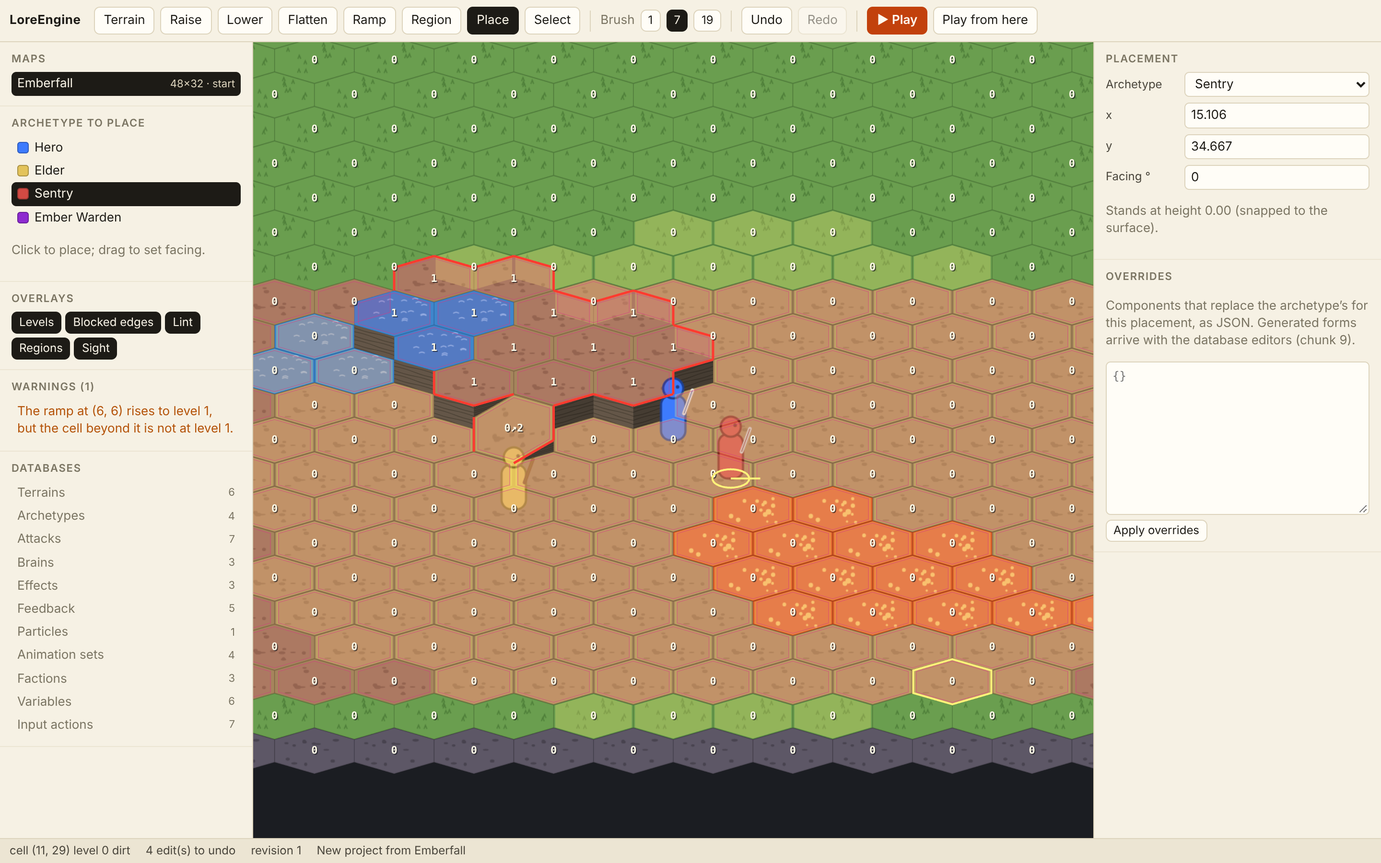
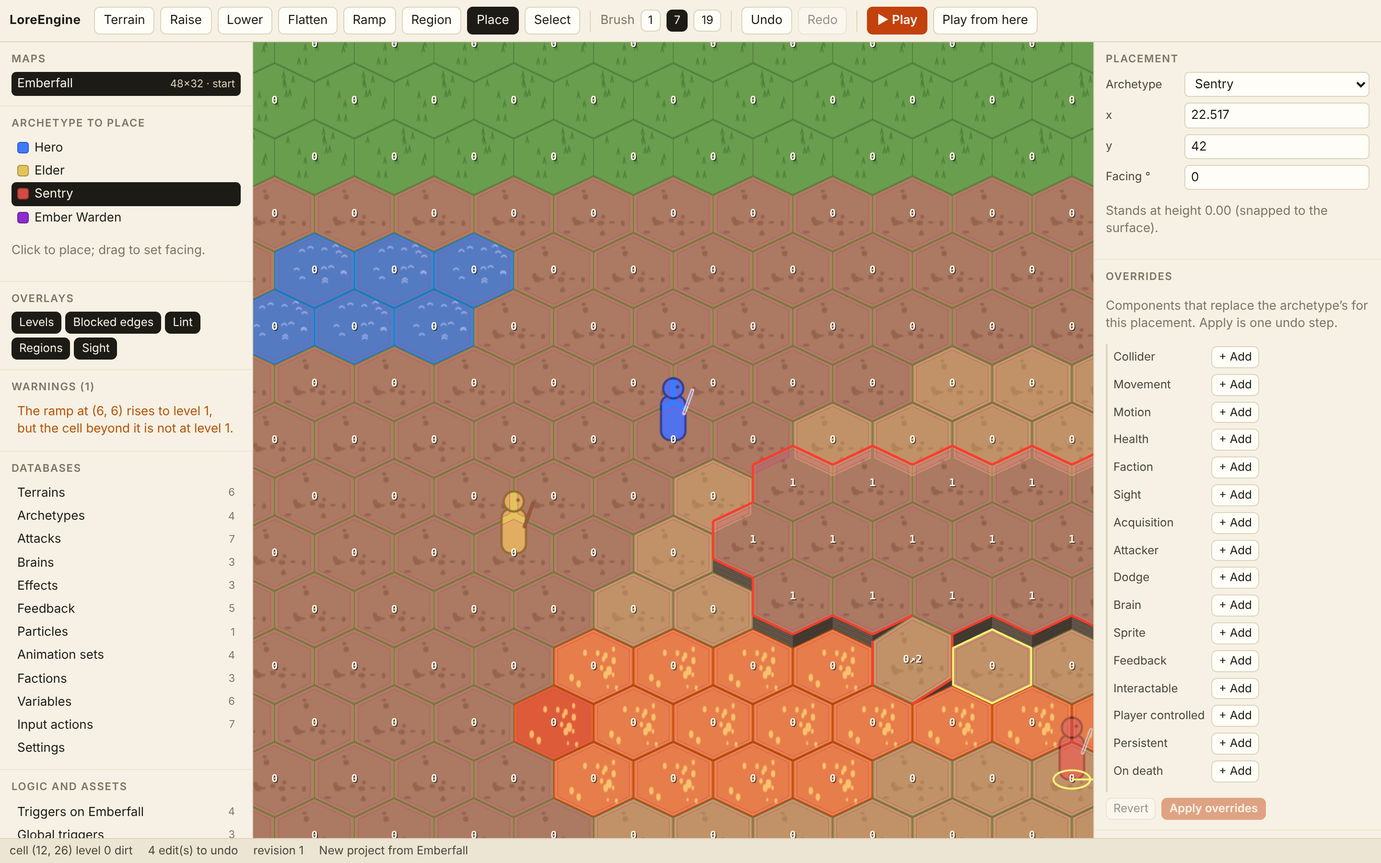
Camera pitched 55 degrees after E's spike review (Civ VI reference)
- projection: a real camera pitch (sin for ground depth, cos for height),
  55 degrees by default; setCameraPitch / setProjectionRatios; ?pitch= on
  the player page (spike = the first camera)
- render tests: exact-number tests include the height ratio; picking and
  occlusion keep their original assertions at the spike's exact projection
  and add the 55 and 70 degree cases
- fix: the ramp tool's arrow drew before a direction was chosen and threw
- docs: spike and editor screenshots regenerated, angle comparison images,
  N10 (departs from 6.6's unscaled heights; E to confirm), D192, PROGRESS

Claude-Session: https://claude.ai/code/session_01Am5jT5BgtTgEo1UVVfn9oa

diff --git a/packages/render/test/spike.test.ts b/packages/render/test/spike.test.ts
@@ -2,7 +2,7 @@
  * Render spike tests (spec 6.11). Everything here runs on the draw list,
  * the strip geometry, and the picking function: no GPU, no DOM.
  */
-import { describe, expect, it } from 'vitest';
+import { afterEach, describe, expect, it } from 'vitest';
 import { ELEVATION, buildElevation, buildEmberfall, cellCenter, id } from '@loreengine/fixtures';
 import { createRuntime, emptyInput } from '@loreengine/runtime';
 import type { Runtime } from '@loreengine/runtime';
@@ -10,13 +10,16 @@ import type { Project } from '@loreengine/schema';
 import { DrawList, ITEM_ENTITY, ITEM_STRIP } from '../src/drawlist.ts';
 import { pickEntity, pickTerrain } from '../src/picking.ts';
 import type { TerrainPick } from '../src/picking.ts';
-import { ISO_RATIO, clampZoom, createCamera, followCamera, projectX, projectY, screenX, screenY, visibleRows, worldXAt, worldYAt } from '../src/projection.ts';
+import { DEFAULT_CAMERA_PITCH, HEIGHT_RATIO, ISO_RATIO, clampZoom, createCamera, followCamera, projectX, projectY, screenX, screenY, setCameraPitch, setProjectionRatios, visibleRows, worldXAt, worldYAt } from '../src/projection.ts';
 import type { Camera } from '../src/projection.ts';
 import { colorOf, footprintRadius, shade, spriteMetrics } from '../src/sprites.ts';
 import { CAMERA_FACING, TOP_INDICES, buildStrip, maxSurface } from '../src/terrain.ts';
 
 const A = ELEVATION.terraces;
 const PPU = 64;
+/** Marks the spike's first projection (squash 0.5, heights unscaled; D192). */
+const SPIKE_PITCH = -1;
+afterEach(() => setCameraPitch(DEFAULT_CAMERA_PITCH));
 const cellOf = (c: { col: number; row: number }): number => c.row * A.width + c.col;
 
 function start(mutate?: (p: Project) => void): Runtime {
@@ -49,17 +52,23 @@ describe('[P3B.projection.world-to-screen] the hex-iso projection', () => {
     expect(at(cam, 10, 20, 0)).toEqual([400, 300]); // the camera's focus is the screen center
     expect(at(cam, 11, 20, 0)).toEqual([400 + 64, 300]);
     expect(at(cam, 10, 21, 0)).toEqual([400, 300 + 64 * ISO_RATIO]);
-    expect(at(cam, 10, 20, 1)).toEqual([400, 300 - 64]); // height lifts straight up
+    // Height lifts straight up, by cos(pitch) of a world unit (D192).
+    expect(at(cam, 10, 20, 1)[0]).toBe(400);
+    expect(at(cam, 10, 20, 1)[1]).toBeCloseTo(300 - 64 * HEIGHT_RATIO, 9);
     cam.zoom = 2;
-    expect(at(cam, 11, 21, 0.5)).toEqual([400 + 128, 300 + 64 - 64]);
+    expect(at(cam, 11, 21, 0.5)[0]).toBe(400 + 128);
+    expect(at(cam, 11, 21, 0.5)[1]).toBeCloseTo(300 + 128 * ISO_RATIO - 64 * HEIGHT_RATIO, 9);
+    // The pitch is a real camera's: ground depth by sin, height by cos.
+    expect(ISO_RATIO).toBeCloseTo(Math.sin((DEFAULT_CAMERA_PITCH * Math.PI) / 180), 12);
+    expect(HEIGHT_RATIO).toBeCloseTo(Math.cos((DEFAULT_CAMERA_PITCH * Math.PI) / 180), 12);
   });
 
   it('reads pixelsPerUnit from the project settings', () => {
     const cam = createCamera(800, 600);
     expect(screenX(cam, 32, 1)).toBe(400 + 32);
-    expect(screenY(cam, 32, 0, 1)).toBe(300 - 32);
+    expect(screenY(cam, 32, 0, 1)).toBeCloseTo(300 - 32 * HEIGHT_RATIO, 9);
     expect(projectX(2, 100)).toBe(200);
-    expect(projectY(2, 0.5, 100)).toBe((2 * ISO_RATIO - 0.5) * 100);
+    expect(projectY(2, 0.5, 100)).toBeCloseTo((2 * ISO_RATIO - 0.5 * HEIGHT_RATIO) * 100, 9);
   });
 
   it('worldXAt / worldYAt invert the projection at any height', () => {
@@ -124,7 +133,7 @@ describe('[P3B.terrain.frames] terrain strips', () => {
     expect(Array.from(flat.heights)).toEqual([1, 1, 1, 1, 1, 1, 1]);
     const c = cellCenter(A.plateau.col, A.plateau.row);
     expect(flat.vertices[0]).toBeCloseTo(c.x * PPU, 3);
-    expect(flat.vertices[1]).toBeCloseTo((c.y * ISO_RATIO - 1) * PPU, 3);
+    expect(flat.vertices[1]).toBeCloseTo((c.y * ISO_RATIO - 1 * HEIGHT_RATIO) * PPU, 3);
     // The lower stacked ramp rises east from level 0 to level 1 (0 .. 0.5 world units).
     const ramp = strip(A.rampLow.row).tops[A.rampLow.col]!;
     const h = Array.from(ramp.heights).map((v) => Math.round(v * 1000) / 1000);
@@ -142,8 +151,8 @@ describe('[P3B.terrain.frames] terrain strips', () => {
       expect([f.topA, f.topB, f.bottomA, f.bottomB]).toEqual([1, 1, 0, 0]);
       expect(f.frame).toEqual(project.terrains[2]!.cliff);
       expect(f.vertices).toHaveLength(8);
-      // Bottom vertices sit one world unit (64 px) below the top ones.
-      expect(f.vertices[7]! - f.vertices[1]!).toBeCloseTo(64, 3);
+      // Bottom vertices sit one world unit (64 px at zoom 1, by cos(pitch)) below the top ones.
+      expect(f.vertices[7]! - f.vertices[1]!).toBeCloseTo(64 * HEIGHT_RATIO, 3);
     }
     // Interior plateau rows have no faces (their neighbors are at the same height) ...
     expect(strip(A.plateau.row + 1).faces.filter((f) => f.cell === cellOf({ col: 8, row: A.plateau.row + 1 }))).toEqual([]);
@@ -227,7 +236,7 @@ describe('[P3B.depth.order] ★ depth order, on the draw list', () => {
     expect(unit).toBeLessThan(list.indexOfStrip(A.plateauEdge.row + 1));
     // Its feet are drawn at the plateau's height, one world unit above the ground position.
     const c = cellCenter(A.plateauEdge.col, A.plateauEdge.row);
-    expect(list.footY[entityOf(rt, 'plateau-edge')]).toBeCloseTo(screenY(cam, PPU, c.y, 0) - 64 * cam.zoom, 6);
+    expect(list.footY[entityOf(rt, 'plateau-edge')]).toBeCloseTo(screenY(cam, PPU, c.y, 0) - 64 * HEIGHT_RATIO * cam.zoom, 6);
   });
 
   it('a unit on a ramp is drawn after the ramp\'s strip, at the ramp\'s height', () => {
@@ -346,16 +355,24 @@ describe('[P3B.picking.height-aware] ★ height-aware picking', () => {
   };
 
   it('points over a plateau\'s top return the plateau cell, not the low hex under its flat footprint', () => {
-    for (const cell of [A.plateauEdge, { col: 7, row: 3 }, { col: 9, row: 5 }]) {
-      for (const [dx, dy] of [[0, 0], [0.5, 0.2], [-0.4, -0.5], [0, 0.7]] as const) {
-        const [sx, sy] = onTop(cell, dx, dy);
-        const hit = pick(sx, sy)!;
-        expect(hit.cell).toBe(cellOf(cell));
-        expect(hit.z).toBeCloseTo(1, 6);
-        expect(hit.y).toBeCloseTo(cellCenter(cell.col, cell.row).y + dy, 3);
-        // A flat pick at the same screen point would have landed two rows further north, on other cells.
-        const flatY = worldYAt(cam, PPU, sy, 0);
-        expect(world.cellAt(worldXAt(cam, PPU, sx), flatY)).not.toBe(cellOf(cell));
+    // At the spike's projection (as first written), and at the default and a steeper camera (D192).
+    for (const pitch of [SPIKE_PITCH, DEFAULT_CAMERA_PITCH, 70]) {
+      if (pitch === SPIKE_PITCH) setProjectionRatios(0.5, 1);
+      else setCameraPitch(pitch);
+      for (const cell of [A.plateauEdge, { col: 7, row: 3 }, { col: 9, row: 5 }]) {
+        for (const [dx, dy] of [[0, 0], [0.5, 0.2], [-0.4, -0.5], [0, 0.7]] as const) {
+          const [sx, sy] = onTop(cell, dx, dy);
+          const hit = pick(sx, sy)!;
+          expect(hit.cell, `pitch ${pitch}`).toBe(cellOf(cell));
+          expect(hit.z).toBeCloseTo(1, 6);
+          expect(hit.y).toBeCloseTo(cellCenter(cell.col, cell.row).y + dy, 3);
+          // At the spike's camera a flat pick at the same screen point would have landed two rows
+          // further north, on other cells. Steeper cameras lift less, so this only holds there.
+          if (pitch === SPIKE_PITCH) {
+            const flatY = worldYAt(cam, PPU, sy, 0);
+            expect(world.cellAt(worldXAt(cam, PPU, sx), flatY)).not.toBe(cellOf(cell));
+          }
+        }
       }
     }
   });

diff --git a/packages/render/src/projection.ts b/packages/render/src/projection.ts
@@ -1,20 +1,47 @@
 /**
  * The hex-iso projection (spec 6.6). The world plane is the un-squashed hex
- * plane in world units. The projection places (x, y) with the vertical iso
- * squash; height lifts the point by `z * pixelsPerUnit * zoom` screen pixels.
+ * plane in world units, seen by an orthographic camera pitched down from the
+ * horizon by CAMERA_PITCH: depth on the ground shrinks by sin(pitch) and
+ * height by cos(pitch), so a steeper camera shows rounder hexes and shorter
+ * cliffs, as Civilization VI and Beyond Earth do.
  *
  *   screenX = (x - cam.x) * ppu * zoom + width / 2
- *   screenY = ((y - cam.y) * ISO_RATIO - (z - cam.z)) * ppu * zoom + height / 2
+ *   screenY = ((y - cam.y) * ISO_RATIO - (z - cam.z) * HEIGHT_RATIO) * ppu * zoom + height / 2
  *
  * Everything here is pure: the picking and depth-order tests run without a GPU.
  */
 
 /**
- * Vertical squash of the world plane on screen. v0.6.0 authored this per
- * map (`isoRatio`); the foundation schema has no such field, so it is an
- * engine constant (DECISIONS_LOG N3).
+ * The camera's angle above the horizon, in degrees. v0.6.0 authored a squash
+ * per map (`isoRatio`); the foundation schema has no such field, so this is
+ * an engine constant (DECISIONS_LOG N3). 55° after E's spike review (D192);
+ * the spike's first angle was about 27° (squash 0.5, heights unscaled).
  */
-export const ISO_RATIO = 0.5;
+export const DEFAULT_CAMERA_PITCH = 55;
+
+/** sin(pitch): how much ground depth survives on screen. */
+export let ISO_RATIO = Math.sin((DEFAULT_CAMERA_PITCH * Math.PI) / 180);
+/** cos(pitch): how much height survives on screen. */
+export let HEIGHT_RATIO = Math.cos((DEFAULT_CAMERA_PITCH * Math.PI) / 180);
+export let CAMERA_PITCH = DEFAULT_CAMERA_PITCH;
+
+/**
+ * Set the two ratios directly. The spike's first camera was (0.5, 1): a squash
+ * of 0.5 with heights unscaled, which no pitch reproduces exactly at the same
+ * scale. Tests use it to keep the spike's original assertions (D192).
+ */
+export function setProjectionRatios(iso: number, height: number): void {
+  ISO_RATIO = iso;
+  HEIGHT_RATIO = height;
+  CAMERA_PITCH = (Math.atan2(iso, height) * 180) / Math.PI;
+}
+
+/** Change the camera's angle (20°..80°), for comparing angles; call before a renderer is made. */
+export function setCameraPitch(degrees: number): void {
+  CAMERA_PITCH = Math.max(20, Math.min(80, degrees));
+  ISO_RATIO = Math.sin((CAMERA_PITCH * Math.PI) / 180);
+  HEIGHT_RATIO = Math.cos((CAMERA_PITCH * Math.PI) / 180);
+}
 
 export const MIN_ZOOM = 0.5;
 export const MAX_ZOOM = 2;
@@ -44,14 +71,14 @@ export function projectX(x: number, ppu: number): number {
   return x * ppu;
 }
 export function projectY(y: number, z: number, ppu: number): number {
-  return (y * ISO_RATIO - z) * ppu;
+  return (y * ISO_RATIO - z * HEIGHT_RATIO) * ppu;
 }
 
 export function screenX(cam: Camera, ppu: number, x: number): number {
   return (x - cam.x) * ppu * cam.zoom + cam.width / 2;
 }
 export function screenY(cam: Camera, ppu: number, y: number, z: number): number {
-  return ((y - cam.y) * ISO_RATIO - (z - cam.z)) * ppu * cam.zoom + cam.height / 2;
+  return ((y - cam.y) * ISO_RATIO - (z - cam.z) * HEIGHT_RATIO) * ppu * cam.zoom + cam.height / 2;
 }
 
 /** World x under screen column `sx` (independent of height). */
@@ -60,7 +87,7 @@ export function worldXAt(cam: Camera, ppu: number, sx: number): number {
 }
 /** World y of the point at height `z` that projects to screen row `sy`. */
 export function worldYAt(cam: Camera, ppu: number, sy: number, z: number): number {
-  return ((sy - cam.height / 2) / (ppu * cam.zoom) + (z - cam.z)) / ISO_RATIO + cam.y;
+  return ((sy - cam.height / 2) / (ppu * cam.zoom) + (z - cam.z) * HEIGHT_RATIO) / ISO_RATIO + cam.y;
 }
 
 /**

diff --git a/packages/render/test/presentation.test.ts b/packages/render/test/presentation.test.ts
@@ -15,7 +15,7 @@ import { MAX_PAGE, bakeAtlas, frameNameOf, packFrames, svgAnchor, svgSize } from
 import type { BakeTools, SvgSource } from '../src/bake.ts';
 import { DrawList } from '../src/drawlist.ts';
 import { Feedback, MAX_PARTICLES, MAX_SHAKE } from '../src/feedback.ts';
-import { createCamera } from '../src/projection.ts';
+import { DEFAULT_CAMERA_PITCH, createCamera, setCameraPitch, setProjectionRatios } from '../src/projection.ts';
 import { isOccluded, silhouettes } from '../src/silhouette.ts';
 import { maxSurface } from '../src/terrain.ts';
 
@@ -397,8 +397,12 @@ describe('the feedback system', () => {
 
   it('the occlusion silhouette: a unit behind a cliff is covered; one on the plateau edge or in the open is not', () => {
     const p = buildElevation();
-    const spot = (cell: { col: number; row: number }) => {
+    const spot = (cell: { col: number; row: number }, plateauLevel = 2) => {
       const q = buildElevation();
+      const m = q.maps[0]!;
+      for (let row = A.plateau.row; row < A.plateau.row + A.plateau.h; row++) {
+        for (let col = A.plateau.col; col < A.plateau.col + A.plateau.w; col++) m.layers.level[row * m.width + col] = plateauLevel;
+      }
       const c = cellCenter(cell.col, cell.row);
       q.maps[0]!.playerStart = { x: c.x, y: c.y, facing: 0 };
       q.maps[0]!.placements = [];
@@ -414,8 +418,21 @@ describe('the feedback system', () => {
       return { occluded: isOccluded(rt.view, cam, list, 0), count: silhouettes(rt.view, cam, list, out), first: out[0] };
     };
     void p;
-    expect(spot(A.behindCliff)).toEqual({ occluded: true, count: 1, first: 0 });
-    expect(spot(A.plateauEdge).occluded).toBe(false);
-    expect(spot(A.playerStart)).toMatchObject({ occluded: false, count: 0 });
+    try {
+      // The spike's projection (squash 0.5, heights unscaled; D192): the level-2 plateau covers the unit right behind it.
+      setProjectionRatios(0.5, 1);
+      expect(spot(A.behindCliff)).toEqual({ occluded: true, count: 1, first: 0 });
+      expect(spot(A.plateauEdge).occluded).toBe(false);
+      expect(spot(A.playerStart)).toMatchObject({ occluded: false, count: 0 });
+      // The default, steeper camera sees over that plateau (a cliff of h hides about 0.7 h behind it);
+      // raised to level 6 (3 units) it covers the same unit again.
+      setCameraPitch(DEFAULT_CAMERA_PITCH);
+      expect(spot(A.behindCliff).occluded).toBe(false);
+      expect(spot(A.behindCliff, 6)).toEqual({ occluded: true, count: 1, first: 0 });
+      expect(spot(A.plateauEdge, 6).occluded).toBe(false);
+      expect(spot(A.playerStart)).toMatchObject({ occluded: false, count: 0 });
+    } finally {
+      setCameraPitch(DEFAULT_CAMERA_PITCH);
+    }
   });
 });

diff --git a/packages/player/src/main.ts b/packages/player/src/main.ts
@@ -7,11 +7,12 @@
  *   ?pick=8,4              pick the terrain under that cell's top, as a click there would
  *   ?start=37,22           start the player on that cell
  *   ?hud=0                 hide the debug readout
+ *   ?pitch=55              camera angle in degrees above the horizon (`spike`: the spike's first camera)
  *
  * `window.__lore` exposes the client for the spike screenshot script.
  */
 import { buildElevation, buildEmberfall, cellCenter, emberfallBlobs } from '@loreengine/fixtures';
-import { screenX, screenY } from '@loreengine/render';
+import { screenX, screenY, setCameraPitch, setProjectionRatios } from '@loreengine/render';
 import type { TerrainPick } from '@loreengine/render';
 import { startClient } from './client.ts';
 import type { Client } from './client.ts';
@@ -23,6 +24,9 @@ declare global {
 }
 
 const params = new URLSearchParams(location.search);
+// ?pitch=55 compares camera angles (degrees above the horizon).
+if (params.get('pitch') === 'spike') setProjectionRatios(0.5, 1); // the render spike's first camera
+else if (params.has('pitch')) setCameraPitch(Number(params.get('pitch')));
 const host = document.getElementById('app')!;
 const project = params.get('fixture') === 'elevation' ? buildElevation() : buildEmberfall();
 

diff --git a/packages/editor/src/ui/canvas.ts b/packages/editor/src/ui/canvas.ts
@@ -218,7 +218,8 @@ export class CanvasController {
       sight,
       brush: this.brushUnder(this.hoverCell),
       brushColor: s.tool === 'region' && s.eraseRegion ? '#ff6b5e' : '#fff27a',
-      rampPreview: drag?.kind === 'layer' && drag.rampCell >= 0 ? { cell: drag.rampCell, dir: map.layers.ramp[drag.rampCell]! } : null,
+      // No arrow until the drag has chosen a direction (a ramp of 0 is no ramp).
+      rampPreview: drag?.kind === 'layer' && drag.rampCell >= 0 && map.layers.ramp[drag.rampCell]! > 0 ? { cell: drag.rampCell, dir: map.layers.ramp[drag.rampCell]! } : null,
     });
     if (selected >= 0) {
       const e = this.preview.entities;

diff --git a/packages/editor/src/ui/draw.ts b/packages/editor/src/ui/draw.ts
@@ -136,7 +136,7 @@ export function drawEditorOverlays(ctx: CanvasRenderingContext2D, p: Projector, 
       ctx.stroke();
     }
   }
-  if (o.rampPreview) {
+  if (o.rampPreview && o.rampPreview.dir >= 1 && o.rampPreview.dir <= 6) {
     const { cell, dir } = o.rampPreview;
     const x = o.world.centerX(cell);
     const y = o.world.centerY(cell);

diff --git a/packages/render/src/index.ts b/packages/render/src/index.ts
@@ -10,6 +10,11 @@ export { pickTerrain, pickEntity } from './picking.ts';
 export type { TerrainPick } from './picking.ts';
 export {
   ISO_RATIO,
+  HEIGHT_RATIO,
+  CAMERA_PITCH,
+  DEFAULT_CAMERA_PITCH,
+  setCameraPitch,
+  setProjectionRatios,
   MIN_ZOOM,
   MAX_ZOOM,
   clampZoom,

diff --git a/docs/DECISIONS_LOG.md b/docs/DECISIONS_LOG.md
@@ -17,6 +17,7 @@ Items that need E's ruling. Nothing here blocks the build order; each was resolv
 - **N7 — There is no "ported hex line".** §7.6 says `castSegment` "walks the cells under the segment with the ported hex line", but the v0.6.0 files in `legacy/` contain no hex line function (v0's line of sight was `distTiles <= 6`). The cast is written fresh; see D100. *(§7.6, kickoff §4)*
 - **N8 — An atlas has one page per tier, so "the packer opens a new page" means a new atlas.** §6.7 packs "into atlas pages of at most 4096 × 4096" and §9.2 says "Packer opens a new page", but `AtlasDef.tiers[]` in §4.5 holds a single `image`. When frames overflow one page, `bakeAtlas` returns further `AtlasDef`s (with new ids) rather than adding pages to one. A `FrameRef` names an atlas, so content that outgrows a page has its overflow frames under another atlas id. If E wants many pages per atlas, `tiers[].image` becomes `tiers[].pages[]` with a page index per frame: a major schema revision. *(§4.5, §6.7, §9.2)*
 - **N9 — Playtest memory: settled for the editor by option (a), with one more step; E to confirm the scope change.** Diagnosed with heap-snapshot diffs (D160, D161). The first leak gate (the standalone player started and stopped 50 times) grew about 12 KB per start, all inside PixiJS 8.23: (1) a module-level map of texture bind groups keyed by texture ids, never cleared, and every start baked pages with new ids; (2) a module-level `idHash` that keeps every GL program's full shader source as a key, where a global name counter makes each renderer's built-in shaders unique. After E's go-ahead to continue (chunk 8), Claudia implemented her recommendation, option (a): **the editor bakes the art once and every playtest borrows it** (`SharedArt`, D145 extended), and, to stop (2), **the editor keeps one playtest renderer for the session** and each Play attaches its runtime's view to it (D162). Fixing that also exposed two leaks of ours (D163). The spec's gate, 50 Play/Stop cycles of the editor's playtest, now passes: textures, audio nodes and canvases back to baseline after every Stop, heap +2.8% between cycle 10 and 50. **What E should confirm:** spec 9.3 lists "renderer textures it loaded" under the Playtest scope. Under this design the shared atlas pages and the playtest's GPU renderer belong to the Editor scope; what a playtest loads (frame textures, strips, sprites, audio nodes, its runtime) is still released at Stop. The standalone player page, which bakes its own art on every start, still grows per start; `check:browser` reports that number without gating it, since a standalone player is not a playtest. *(§9.3, §9.5)*
+- **N10 — The camera has a pitch now, and heights shrink with it: this departs from §6.6's wording.** E's spike review asked for a higher isometric angle, with Civilization VI and Beyond Earth as the reference. §6.6 says height lifts a point by `z × pixelsPerUnit × zoom`, with heights unscaled. A real camera pitched θ above the horizon shrinks ground depth by sin θ and height by cos θ; the spike's camera (squash 0.5, heights unscaled) is about 27°. The engine now projects with a pitch, 55° by default, so hexes are rounder and cliffs shorter, as in the reference games. Raising only the squash with heights unscaled would leave cliffs too tall for the new angle. **E to confirm the angle** (comparison images in `docs/spike/`; try any angle with `?pitch=` on the player page) and that heights should scale. The angle is still an engine constant, not an authored field (N3). *(§6.6)*
 
 ## Chunk 1 — Architecture & Schema
 
@@ -298,3 +299,7 @@ Started at E's request after the hard stop ("you only used like 9% of your 5-hou
 ## After chunk 9 — E's checks on E's machine
 
 - **D191 — Tooling for running the checks outside the cloud container.** Playwright (1.63.0, the version the container's browser was built for) is now a dev dependency, and `package.json` says Node 22 or newer; the container had Playwright preinstalled, which hid that the repo did not list it. The browser checks gained `--bench-only` (skip the leak gates) and `--gpu` (the render bench in a visible Chromium on the machine's GPU, without SwiftShader), combined as `npm run bench:render`. The bench now prints the WebGL renderer it ran on and marks a software renderer, so a number measured without a GPU cannot pass for one. A root README has the set-up and run commands. *(§9.1, D158)*
+
+## After E's spike review
+
+- **D192 — The camera pitch** (`render/src/projection.ts`): `DEFAULT_CAMERA_PITCH` 55°, `ISO_RATIO` = sin(pitch), `HEIGHT_RATIO` = cos(pitch), applied in `projectY`, `screenY` and `worldYAt`, so terrain, picking, depth order, occlusion, overlays and the editor all follow. Sprites stay upright billboards at their pixel size. `setCameraPitch` (20°..80°) and `setProjectionRatios` exist for comparisons and tests; the player page reads `?pitch=` (`spike` for the first camera). Earlier render tests changed with it: the exact-number projection, strip, cliff-face and feet tests now include the height ratio; the height-aware picking test runs at the spike's exact projection with all its original assertions, and at 55° and 70° with all but "a flat pick lands two rows north", which only a shallow camera makes true; the occlusion test keeps its original expectations at the spike's projection and adds the 55° case, where the camera sees over a level-2 plateau and a level-6 one covers the unit again. *(§6.6, §6.11, N10)*

diff --git a/docs/PROGRESS.md b/docs/PROGRESS.md
@@ -54,13 +54,13 @@ npm run bench:render
 
 ## Needs E
 
-See `docs/DECISIONS_LOG.md`, section **Needs E** (N1–N9). **N6 is the one to read first:** the spec's wide-ramp clause and its continuity promise cannot both hold on a hex grid, and I chose continuity. **N9 next:** I implemented my recommendation (the editor owns the baked art and one playtest renderer), which moves those two things from the Playtest scope of §9.3 to the Editor scope; please confirm.
+See `docs/DECISIONS_LOG.md`, section **Needs E** (N1–N10). **N6 is the one to read first:** the spec's wide-ramp clause and its continuity promise cannot both hold on a hex grid, and I chose continuity. **N9 next:** I implemented my recommendation (the editor owns the baked art and one playtest renderer), which moves those two things from the Playtest scope of §9.3 to the Editor scope; please confirm.
 
 ## Known issues
 
 - **The session lost about 9.5 hours to two usage-limit pauses** (roughly 02:15 to 06:42 and 07:10 to 12:15 GMT+7). Elapsed times in the table count working time only. Chunk 8 was built after the hard stop, at E's request.
 - Git pushes were refused (HTTP 403) for the first ~12 minutes of the session, until GitHub access was granted. Branch pushes work since; **tag pushes are still refused**, so `chunk-N-green` tags are local to the session and each green commit is listed by SHA in the table above (N5).
-- **The spike review gate is open.** `docs/spike/README.md` lists the scenes and what the spike found. The screenshots now show the baked placeholder art.
+- **The spike review gate:** E asked for a higher camera angle (Civ VI / Beyond Earth); the camera is now pitched 55°, awaiting E's confirmation of the angle (N10). `docs/spike/README.md` lists the scenes, what the spike found, and the angle comparison.
 - **Chunk 7 simplifications** (each logged): the occlusion silhouette is not masked to the covered part (D151); flashing-as-outline is stored but drawn as a tint (D152); a telegraph also tints units standing in front rows of its area (D150).
 - **The standalone player page still grows about 15 KB of heap per start/stop** (PixiJS keeps a little per renderer and per new texture; N9). It is reported by `check:browser`, not gated: the spec's gate is the editor's playtest, which passes. A shipped game starts its client once.
 - **Fixed in chunk 8, found by the leak gate (D163):** destroyed terrain strips and sprites kept their GPU buffers and graphics contexts. Short-lived renderers hid it; the editor's canvas would have grown with every edit.
@@ -75,8 +75,8 @@ See `docs/DECISIONS_LOG.md`, section **Needs E** (N1–N9). **N6 is the one to r
 
 **All nine chunks of the kickoff are built and green.** Phase 6 and later are out of scope for this build (kickoff), so the next steps are E's:
 
-1. **The review gates.** The render spike (`docs/spike/README.md`) and the editor (`docs/editor/README.md`) have screenshots and notes for review.
-2. **Needs E** in `docs/DECISIONS_LOG.md`, N1 to N9: N6 (wide ramps) first, then N9 (the editor owns the baked art and one playtest renderer, a §9.3 scope change).
+1. **The review gates.** *Render spike — E's review (18 Nov):* "the hex grids should have a higher isometric angle; use Civilization VI or Beyond Earth for reference." Done: the camera is pitched 55° (D192), the spike and editor screenshots are regenerated, and `docs/spike/camera-pitch-*.png` compare 27°, 45°, 55° and 65°. **E to confirm the angle (N10).** *Editor review:* still open (`docs/editor/README.md`).
+2. **Needs E** in `docs/DECISIONS_LOG.md`, N1 to N10: N6 (wide ramps) first, then N9 (the editor owns the baked art and one playtest renderer, a §9.3 scope change).
 3. **The budgets on E's machine.** The tick bench (`npm run bench`) and the render bench were measured in this cloud container with software WebGL. The 8 ms render budget needs `npm run build && npm run bench:render` on a machine with a GPU; it prints the WebGL renderer it used.
 4. **Tags.** `chunk-1-green` to `chunk-9-green` exist only in this session's clone (tag pushes were refused all session, N5); the green commits are listed by SHA in the table above, and E can tag them.
 

diff --git a/docs/spike/README.md b/docs/spike/README.md
@@ -2,16 +2,19 @@
 
 These are for E's review gate after chunk 4 (spec §10): do row strips give an acceptable depth order on cliffs and ramps, and does a click land on the hex you meant?
 
-Art is placeholder, but it goes through the real pipeline: the fixtures' generated SVGs (`fixtures/src/art.ts`: textured hex tops, a layered cliff face, posed figures) are baked into atlases in the browser at startup and drawn as atlas textures (chunk 7). Scenes 01–05 are the elevation fixture (`fixtures/src/elevation.ts`); 06–08 are Emberfall. All are drawn by the real renderer in headless Chromium at device pixel ratio 2.
+Art is placeholder, but it goes through the real pipeline: the fixtures' generated SVGs (`fixtures/src/art.ts`: textured hex tops, a layered cliff face, posed figures) are baked into atlases in the browser at startup and drawn as atlas textures (chunk 7). **Camera, after E's review (18 Nov):** the screenshots now use a camera pitched 55° above the horizon, closer to Civilization VI and Beyond Earth than the spike's first camera (about 27°, a squash of 0.5 with heights unscaled). Ground depth shrinks by sin(pitch) and height by cos(pitch), so hexes are rounder and cliffs shorter (D192, N10). `camera-pitch-emberfall.png` and `camera-pitch-terraces.png` compare the spike camera, 45°, 55° and 65° on the same scenes.
+
+Scenes 01–05 are the elevation fixture (`fixtures/src/elevation.ts`); 06–08 are Emberfall. All are drawn by the real renderer in headless Chromium at device pixel ratio 2.
 
 | File | What to look at |
 |---|---|
-| `01-unit-behind-cliff.png` | The dummy at the top stands on low ground north of the plateau. The plateau's lifted top covers its lower half: it is drawn before the plateau's strips. |
+| `01-unit-behind-cliff.png` | The dummy at the top stands on low ground north of the plateau, drawn before the plateau's strips. At 55° the camera sees over a level-2 cliff, so only its feet meet the plateau's edge; at the spike's 27° the plateau covered its lower half. A taller cliff still covers it (the occlusion test raises the plateau to level 6 for this). |
 | `02-unit-on-plateau-edge.png` | The dummy stands on the plateau's southern edge, above the cliff face. It draws over its own strip (top and face) and before the ground below. |
 | `03-unit-on-ramp.png` | The dummy stands on the upper of two stacked ramps (level 1 → 2), at the ramp's height. The ramps are the same top art, tilted; their sides show as half-level faces. |
-| `04-pick-on-raised-hex.png` | A click at the yellow ring. The readout says `pick (9, 4) level 2 stone z 1.00` and the plateau cell is outlined. A flat pick at that screen point would have hit a ground cell two rows further north. |
+| `04-pick-on-raised-hex.png` | A click at the yellow ring. The readout says `pick (9, 4) level 2 stone z 1.00` and the plateau cell is outlined. A flat pick at that screen point would have hit a ground cell further north. |
 | `05-terraces-overview.png` | The whole fixture: plateau (level 2), terrace (level 1) with its ramp, pond, rock pillar, level-3 spire. |
 | `06-emberfall-plateau.png`, `07-emberfall-overview.png` | Emberfall with the same renderer. |
+| `camera-pitch-*.png` | The same two scenes at the spike camera, 45°, 55° (the new default) and 65°, for choosing the angle. `?pitch=50` on the player page tries any angle; `?pitch=spike` shows the first one. |
 | `08-boss-telegraph.png` | The player starts beside the boss, which winds up its slam. The red area on the ground is the slam's hitbox, drawn for the whole windup (the telegraph, D150), with the HUD's health bars. |
 
 ## See it live

diff --git a/docs/editor/README.md b/docs/editor/README.md
@@ -1,6 +1,6 @@
 # Editor — review screenshots (chunks 8 and 9)
 
-The editor (spec section 8) running its production build in headless Chromium at device pixel ratio 2, on a fresh Emberfall. The art is the fixtures' placeholder SVGs, baked once by the editor and lent to the canvas and every playtest (DECISIONS N9, D162).
+The editor (spec section 8) running its production build in headless Chromium at device pixel ratio 2, on a fresh Emberfall, with the camera pitched 55° (D192). The art is the fixtures' placeholder SVGs, baked once by the editor and lent to the canvas and every playtest (DECISIONS N9, D162).
 
 | File | What to look at |
 |---|---|
